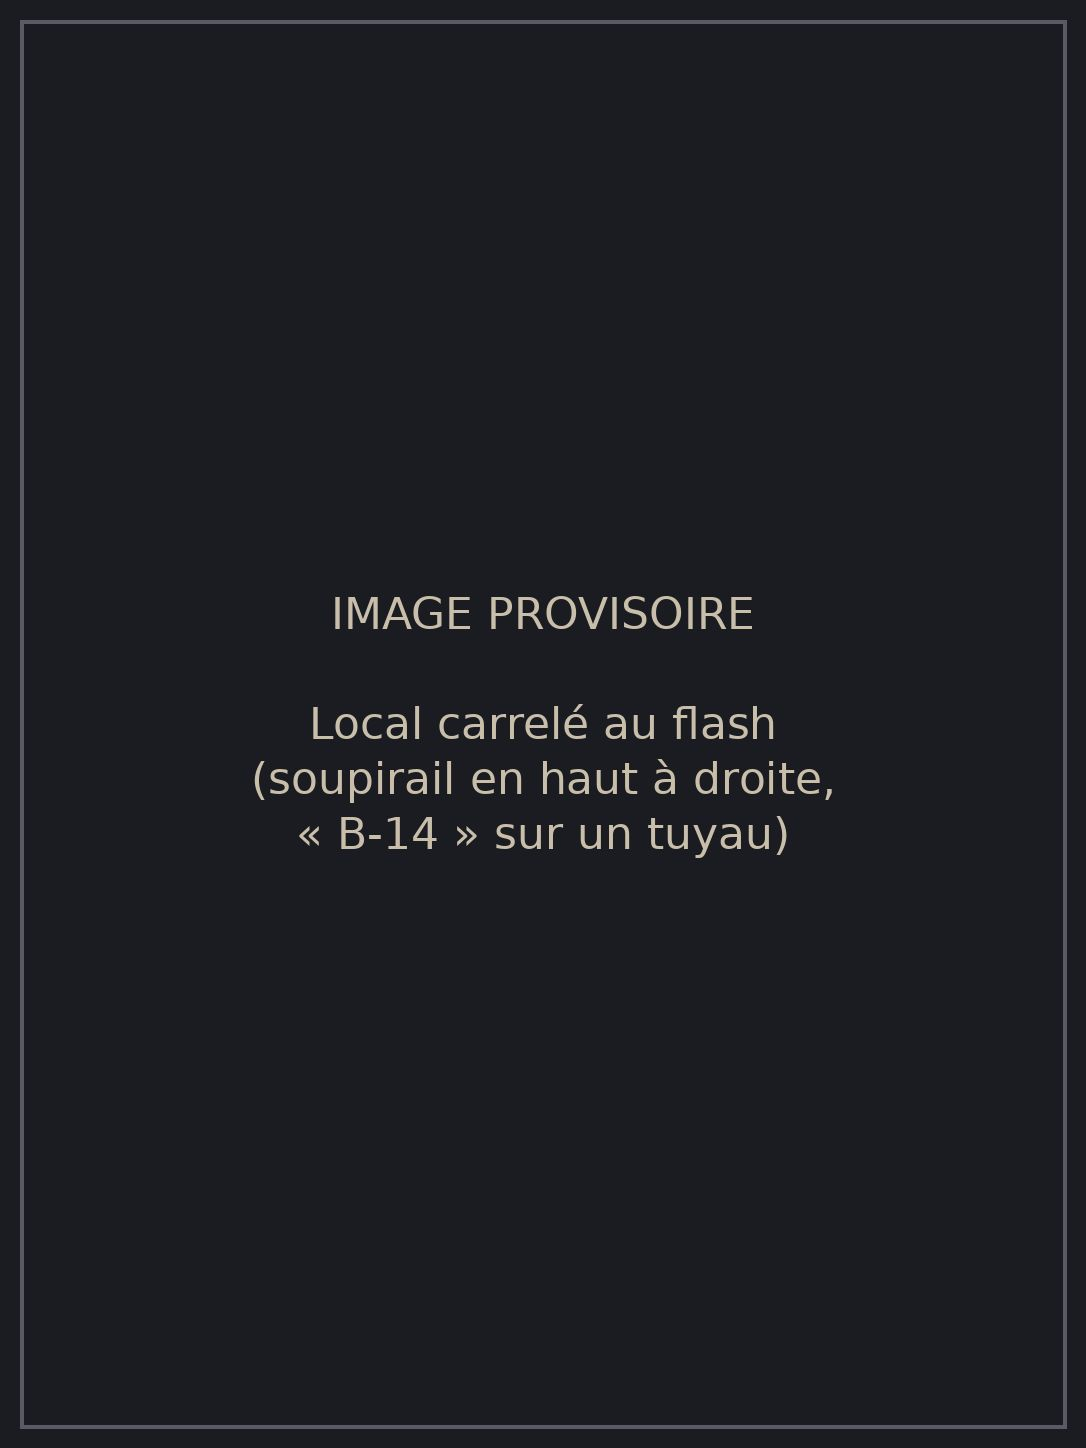
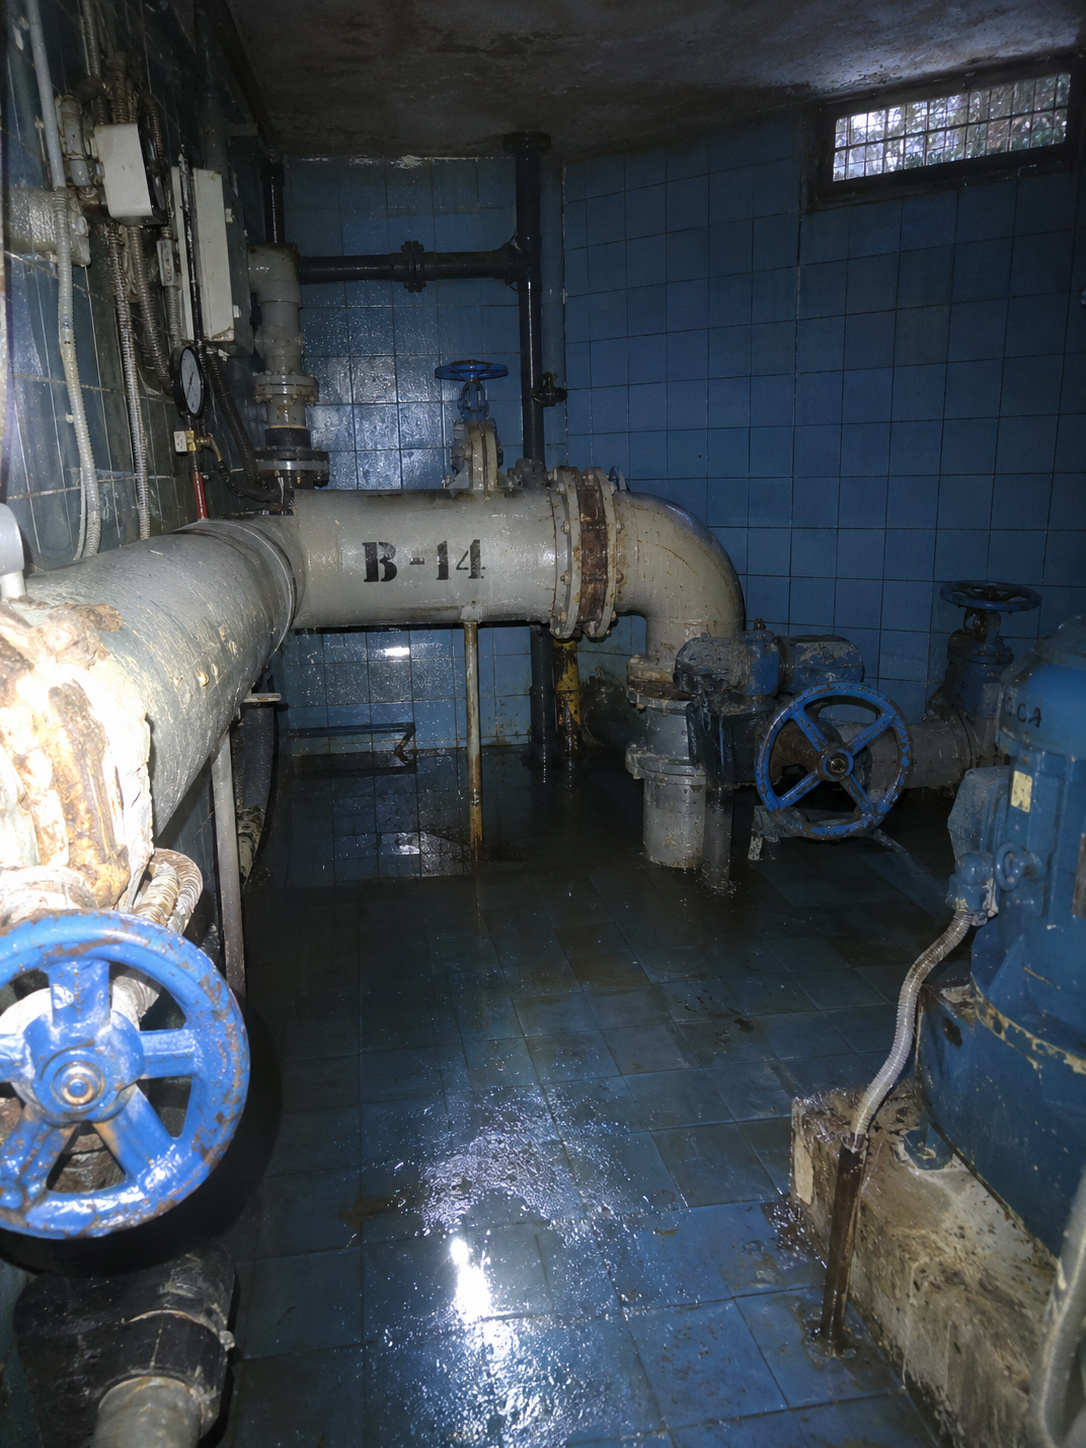
12 % : les 5 images de l'auteur, zones recalées
Claude-Session: https://claude.ai/code/session_01GLG5jZU1p3rJPgmAbS2oMq

diff --git a/src/content/cases/douze-pourcent/index.ts b/src/content/cases/douze-pourcent/index.ts
@@ -43,7 +43,7 @@ const PLAN = `
 const AVIS = `
 <div style="font-family:-apple-system,BlinkMacSystemFont,'Segoe UI',sans-serif;text-align:center">
 <div style="background:#b3261e;color:#fff;font-weight:800;letter-spacing:.12em;padding:8px;margin-bottom:14px">DISPARITION INQUIÉTANTE</div>
-<img src="${DIR}/lea-portrait.jpg" alt="Photo de Léa Garnier, souriante." style="width:160px;height:213px;object-fit:cover;border-radius:4px;margin:0 auto 12px;display:block"/>
+<img src="${DIR}/lea-portrait.jpg" alt="Photo de Léa Garnier, souriante, en veste en jean." style="width:160px;height:213px;object-fit:cover;border-radius:4px;margin:0 auto 12px;display:block"/>
 <h2 style="font-size:24px;margin:0 0 4px">Léa GARNIER</h2>
 <div style="color:#666;margin-bottom:14px">24 ans · 1,65 m · cheveux châtains · veste en jean</div>
 <p style="text-align:left">Vue pour la dernière fois à la sortie d’un bar du centre-ville de Vernay-les-Eaux. Son téléphone a cessé d’émettre dans la nuit.</p>
@@ -76,16 +76,16 @@ export const douzePourcent: CaseDefinition = {
           src: `${DIR}/piece.jpg`,
           ...IMG,
           maxZoom: 6,
-          alt: 'Photo au flash dans le noir : un petit local carrelé de bleu, de gros tuyaux et des vannes le long du mur. Sur un tuyau, peint au pochoir : B-14. En haut à droite, un soupirail grillagé au ras du plafond.',
+          alt: 'Photo au flash dans le noir : un petit local carrelé de bleu, de gros tuyaux et des vannes le long du mur. Sur le gros tuyau du milieu, peint au pochoir : B-14. En haut à droite, un soupirail grillagé au ras du plafond. De l’eau au sol.',
           info: [
             { label: 'Date', value: 'Aujourd’hui' },
             { label: 'Appareil', value: 'Téléphone de Léa' },
             { label: 'Lieu', value: 'Inconnu (localisation désactivée)' },
           ],
           hotspots: [
-            { id: 'p-soupirail', x: 0.68, y: 0.06, w: 0.26, h: 0.14, observationId: 'soupirail' },
-            { id: 'p-b14', x: 0.3, y: 0.42, w: 0.22, h: 0.1, observationId: 'b14' },
-            { id: 'p-carrelage', x: 0.04, y: 0.55, w: 0.22, h: 0.3, observationId: 'carrelage' },
+            { id: 'p-soupirail', x: 0.68, y: 0.05, w: 0.26, h: 0.09, observationId: 'soupirail' },
+            { id: 'p-b14', x: 0.3, y: 0.34, w: 0.18, h: 0.08, observationId: 'b14' },
+            { id: 'p-carrelage', x: 0.6, y: 0.2, w: 0.3, h: 0.18, observationId: 'carrelage' },
           ],
         },
       },
@@ -102,7 +102,7 @@ export const douzePourcent: CaseDefinition = {
           ...IMG,
           maxZoom: 6,
           alt: 'Une porte métallique grise, au flash. À hauteur d’yeux, un vieil autocollant : « Ville de Vernay-les-Eaux · Service des sports · Local technique ». Pas de poignée de ce côté.',
-          hotspots: [{ id: 'po-autocollant', x: 0.3, y: 0.3, w: 0.4, h: 0.14, observationId: 'mairie' }],
+          hotspots: [{ id: 'po-autocollant', x: 0.29, y: 0.38, w: 0.4, h: 0.18, observationId: 'mairie' }],
         },
       },
     },
@@ -117,10 +117,10 @@ export const douzePourcent: CaseDefinition = {
           src: `${DIR}/dehors.jpg`,
           ...IMG,
           maxZoom: 6,
-          alt: 'À travers une grille, au ras du sol, la nuit : un parking désert et mouillé. Plus loin, sous un lampadaire, la silhouette d’un grand toboggan. Derrière, un clocher d’église éclairé.',
+          alt: 'À travers une grille, au ras du sol, la nuit : un parking désert et mouillé. À gauche, sous un lampadaire orange, la structure d’un grand toboggan. Tout au fond à droite, un petit clocher d’église éclairé.',
           hotspots: [
-            { id: 'd-toboggan', x: 0.18, y: 0.3, w: 0.34, h: 0.3, observationId: 'toboggan' },
-            { id: 'd-clocher', x: 0.62, y: 0.08, w: 0.2, h: 0.36, observationId: 'clocher' },
+            { id: 'd-toboggan', x: 0, y: 0.33, w: 0.32, h: 0.17, observationId: 'toboggan' },
+            { id: 'd-clocher', x: 0.79, y: 0.34, w: 0.11, h: 0.12, observationId: 'clocher' },
           ],
         },
       },

diff --git a/src/content/assets.ts b/src/content/assets.ts
@@ -85,12 +85,12 @@ export const ASSETS: AssetEntry[] = [
   { path: '/media/cases/dossier-0/piece.mp3', kind: 'audio', usage: 'Silence de la pièce', source: 'Généré avec ElevenLabs (compte de l’auteur)' },
   { path: '/media/cases/dossier-0/coeur.mp3', kind: 'audio', usage: 'Battements de cœur (épreuve)', source: 'Généré avec ElevenLabs (compte de l’auteur)' },
   { path: '/media/cases/dossier-0/ne-bouge-plus.mp3', kind: 'audio', usage: '« Ne bouge plus » chuchoté', source: 'Généré avec ElevenLabs (compte de l’auteur)' },
-  // Enquête « 12 % » (images provisoires tant que l'auteur n'a pas fourni les siennes)
-  { path: '/media/cases/douze-pourcent/piece.jpg', kind: 'image', usage: 'IMG_2231.jpg — le local carrelé au flash (soupirail, B-14)', source: 'Provisoire, généré par le jeu', placeholder: true },
-  { path: '/media/cases/douze-pourcent/porte.jpg', kind: 'image', usage: 'IMG_2232.jpg — la porte métallique, autocollant de la mairie', source: 'Provisoire, généré par le jeu', placeholder: true },
-  { path: '/media/cases/douze-pourcent/dehors.jpg', kind: 'image', usage: 'IMG_2233.jpg — vue du soupirail : toboggan et clocher', source: 'Provisoire, généré par le jeu', placeholder: true },
-  { path: '/media/cases/douze-pourcent/hopital.jpg', kind: 'image', usage: 'IMG_0412.jpg — épilogue, pouce levé à l’hôpital', source: 'Provisoire, généré par le jeu', placeholder: true },
-  { path: '/media/cases/douze-pourcent/lea-portrait.jpg', kind: 'image', usage: 'Avis de recherche de Léa (fin sombre)', source: 'Provisoire, généré par le jeu', placeholder: true },
+  // Enquête « 12 % »
+  { path: '/media/cases/douze-pourcent/piece.jpg', kind: 'image', usage: 'IMG_2231.jpg — le local carrelé au flash (soupirail, B-14)', source: 'Image fournie par l’auteur du jeu' },
+  { path: '/media/cases/douze-pourcent/porte.jpg', kind: 'image', usage: 'IMG_2232.jpg — la porte métallique, autocollant de la mairie', source: 'Image fournie par l’auteur du jeu' },
+  { path: '/media/cases/douze-pourcent/dehors.jpg', kind: 'image', usage: 'IMG_2233.jpg — vue du soupirail : toboggan et clocher', source: 'Image fournie par l’auteur du jeu' },
+  { path: '/media/cases/douze-pourcent/hopital.jpg', kind: 'image', usage: 'IMG_0412.jpg — épilogue, pouce levé à l’hôpital', source: 'Image fournie par l’auteur du jeu' },
+  { path: '/media/cases/douze-pourcent/lea-portrait.jpg', kind: 'image', usage: 'Avis de recherche de Léa (fin sombre)', source: 'Image fournie par l’auteur du jeu' },
   { path: '/media/cases/douze-pourcent/lea-vocal.mp3', kind: 'audio', usage: 'Message vocal de Léa (cloches)', source: 'Généré avec ElevenLabs (compte de l’auteur)' },
 ];
 

diff --git a/docs/enquete-6-douze-pourcent.md b/docs/enquete-6-douze-pourcent.md
@@ -1,6 +1,6 @@
 # Enquête 6 — « 12 % » (thriller en temps réel)
 
-Statut : histoire validée par l'auteur (22/11/2026), code écrit (`src/content/cases/douze-pourcent/`), images provisoires en attendant celles de l'auteur, message vocal généré avec ElevenLabs. Enquête réservée (code d'accès). Durée : ~15 min.
+Statut : histoire validée par l'auteur (22/11/2026), code écrit (`src/content/cases/douze-pourcent/`), images de l'auteur installées (zones recalées), message vocal généré avec ElevenLabs. Enquête réservée (code d'accès). Durée : ~15 min.
 
 ## Vérité
 Léa Garnier, 24 ans, a été abordée à la sortie d'un bar de Vernay-les-Eaux par un homme qui s'est présenté comme « Hugo ». Elle se réveille enfermée dans le local technique B-14, au sous-sol de la **piscine Jean-Bouin**, fermée depuis 2024, au pied du clocher Saint-Martin. Elle veut écrire à sa sœur Camille, « la seule famille qui me reste », mais se trompe d'un chiffre : le message arrive sur la ligne de permanence Paraline du joueur.
@@ -32,12 +32,11 @@ Léa Garnier, 24 ans, a été abordée à la sortie d'un bar de Vernay-les-Eaux 
 3. **Un dernier message** : message pour Camille à 1 %, lieu jamais donné : Camille part seule et n'écrit plus.
 4. **Il est arrivé avant** : le lieu donné à « Hugo » avant l'arrivée des secours.
 
-## Images à fournir (portrait 3:4, 1086 × 1448, photo réaliste de smartphone)
-Remplacer les fichiers provisoires de `public/media/cases/douze-pourcent/` (mêmes noms), puis retirer `placeholder: true` dans `src/content/assets.ts` et recaler les zones si besoin.
+## Images (fournies par l'auteur, 1086 × 1448) et zones à toucher
 
-1. `piece.jpg` : local technique au flash, dans le noir. Carrelage bleu, gros tuyaux et vannes. **« B-14 » au pochoir sur un tuyau, au centre-gauche** (zone x 0,30–0,52 ; y 0,42–0,52). **Soupirail grillagé en haut à droite**, au ras du plafond (x 0,68–0,94 ; y 0,06–0,20). Flaque au sol.
-2. `porte.jpg` : porte métallique grise au flash, sans poignée de ce côté. **Autocollant délavé à hauteur d'yeux** : « Ville de Vernay-les-Eaux · Service des sports · Local technique » (x 0,30–0,70 ; y 0,30–0,44).
-3. `dehors.jpg` : la nuit, vue au ras du sol à travers une grille. Parking désert et mouillé. **Grand toboggan à gauche**, sous un lampadaire (x 0,18–0,52 ; y 0,30–0,60). **Clocher d'église éclairé à droite**, au fond (x 0,62–0,82 ; y 0,08–0,44).
+1. `piece.jpg` : local technique au flash, dans le noir. Carrelage bleu, gros tuyaux et vannes. **« B-14 » au pochoir sur un tuyau, au centre-gauche** (zone x 0,30–0,48 ; y 0,34–0,42). **Soupirail grillagé en haut à droite**, au ras du plafond (x 0,68–0,94 ; y 0,05–0,14). Flaque au sol.
+2. `porte.jpg` : porte métallique grise au flash, sans poignée de ce côté. **Autocollant délavé à hauteur d'yeux** : « Ville de Vernay-les-Eaux · Service des sports · Local technique » (x 0,29–0,69 ; y 0,38–0,56).
+3. `dehors.jpg` : la nuit, vue au ras du sol à travers une grille. Parking désert et mouillé. **Grand toboggan à gauche**, sous un lampadaire (x 0–0,32 ; y 0,33–0,50). **Clocher d'église éclairé à droite**, au fond (x 0,79–0,90 ; y 0,34–0,46).
 4. `hopital.jpg` : chambre d'hôpital au petit matin. Une main avec un bracelet d'hôpital sort d'une couverture de survie dorée et fait un pouce levé. Pas de visage.
 5. `lea-portrait.jpg` : portrait de Léa, 24 ans, cheveux châtains, veste en jean, souriante, photo de soirée prise au téléphone (pour l'avis de recherche de la fin sombre).
 
